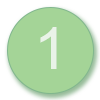
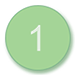
zones med siffror

Changed region(s): [[0.4, 0.2667, 0.5867, 0.6933]]

diff --git a/app/lib/geoFunctions.js b/app/lib/geoFunctions.js
@@ -240,9 +240,7 @@ function addClueZone() {
 			var zoneAnnotation = MapModule.createAnnotation({
 				latitude : zoneJSON[c].latitude,
 				longitude : zoneJSON[c].longitude,
-				image : '/images/1green.png',
-				title : 'Här hittar du bokstav ' + (c+1) + '!',
-				rightButton : ''
+				image : '/images/' + (c+1) + 'green.png'
 			});
 
 			interactiveMap.addAnnotation(zoneAnnotation);
